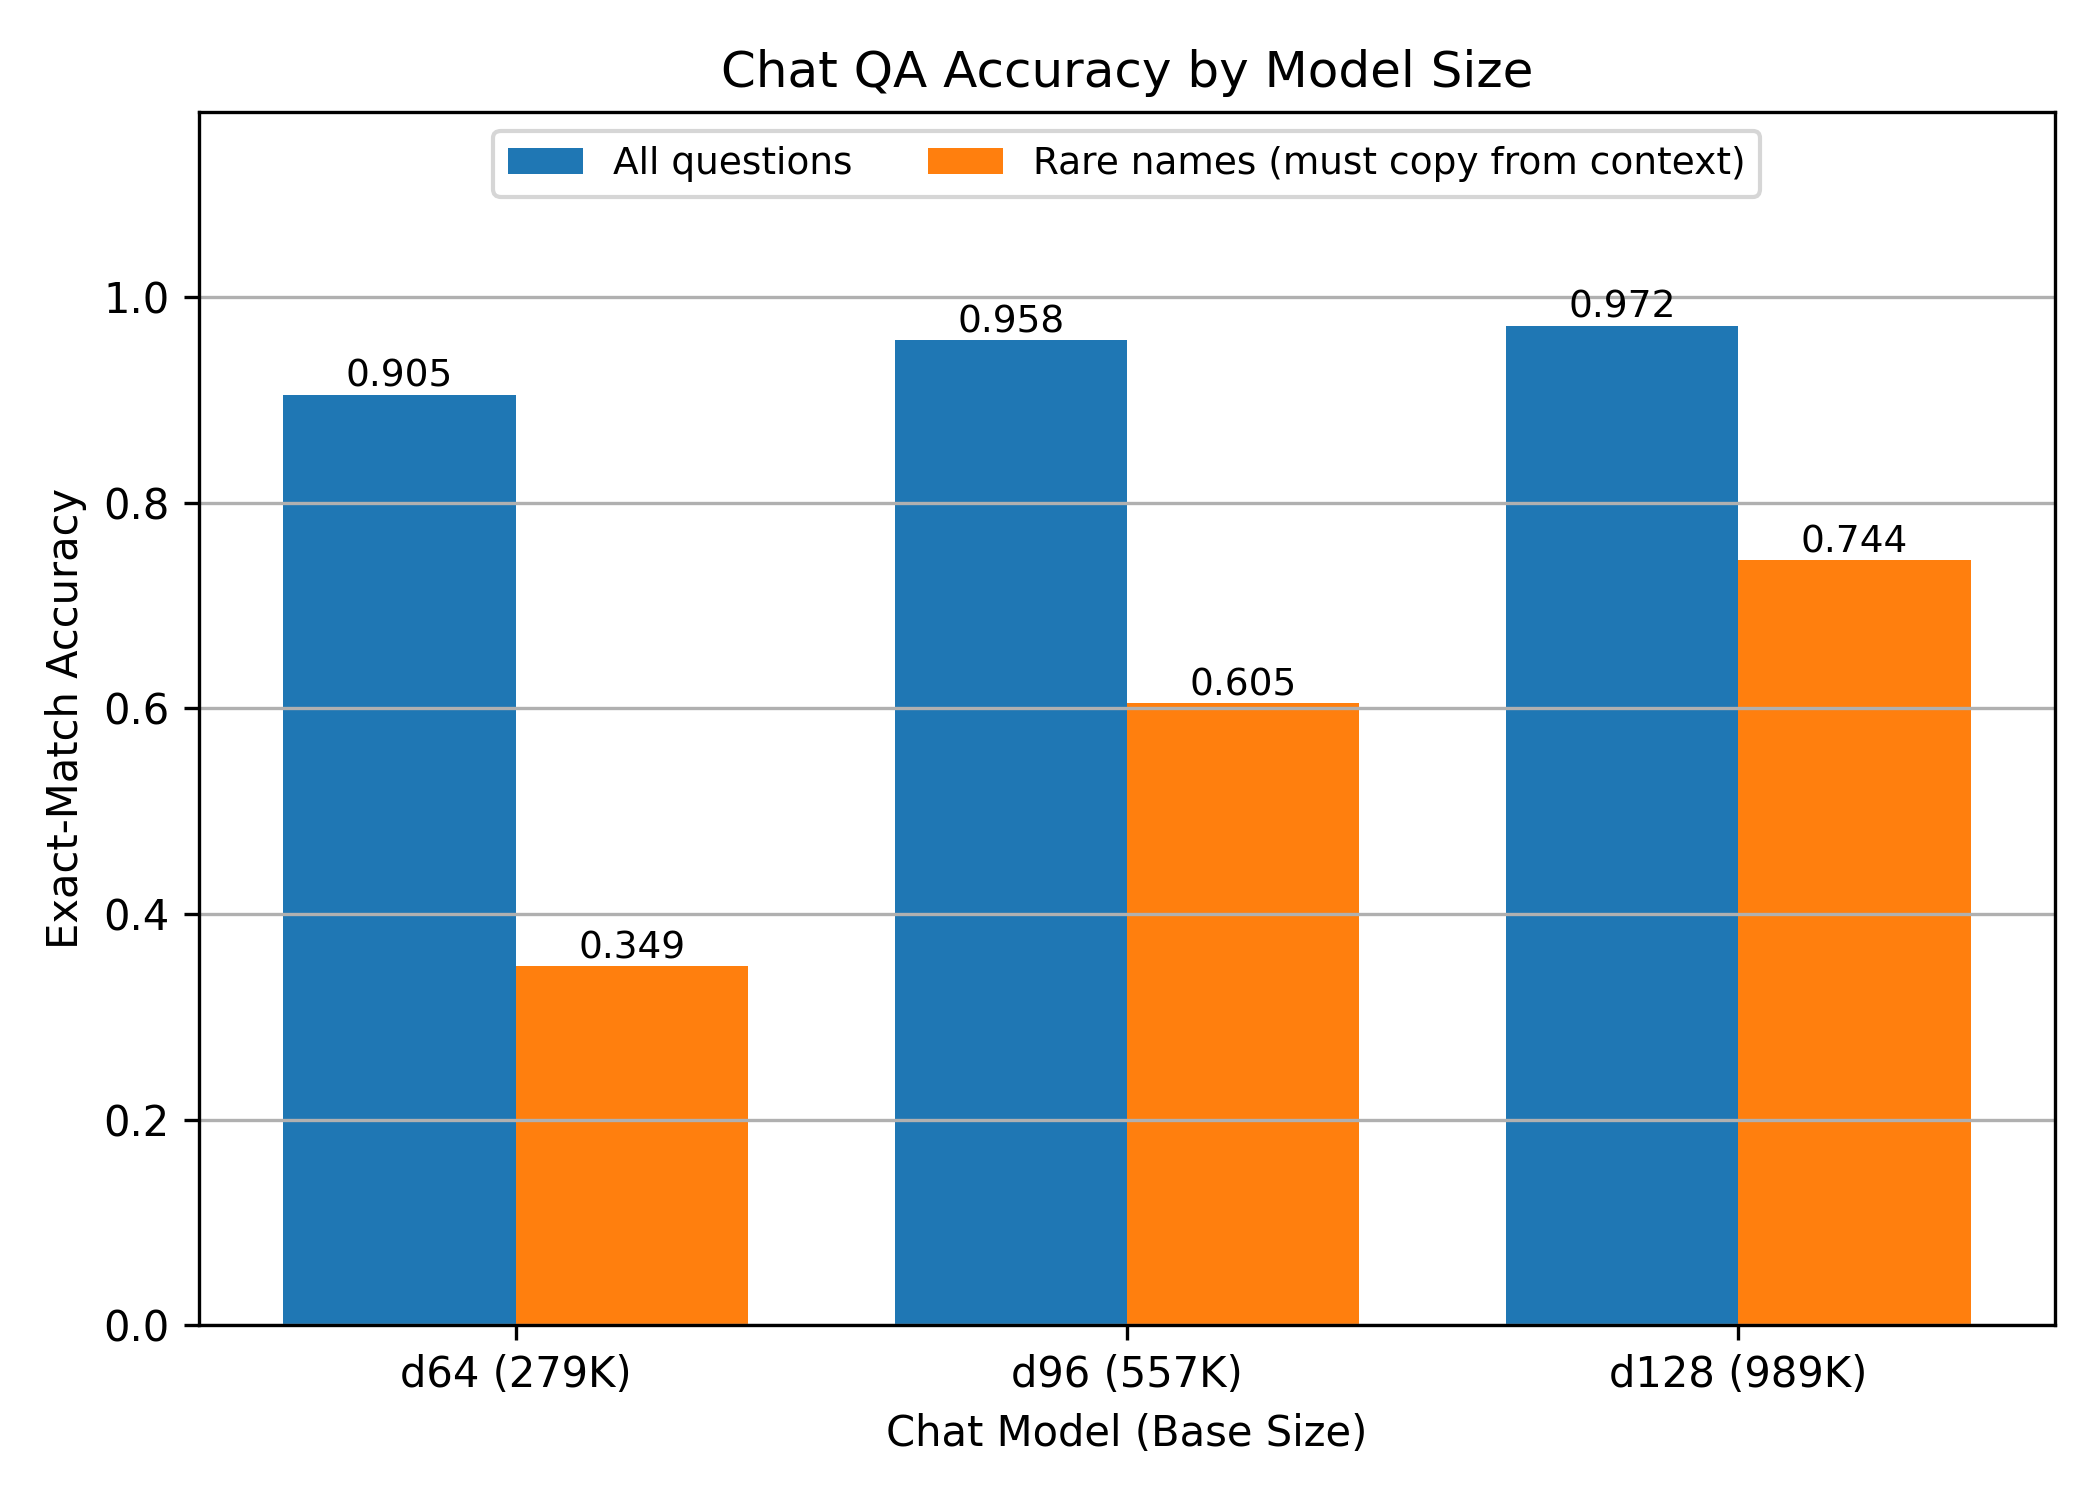
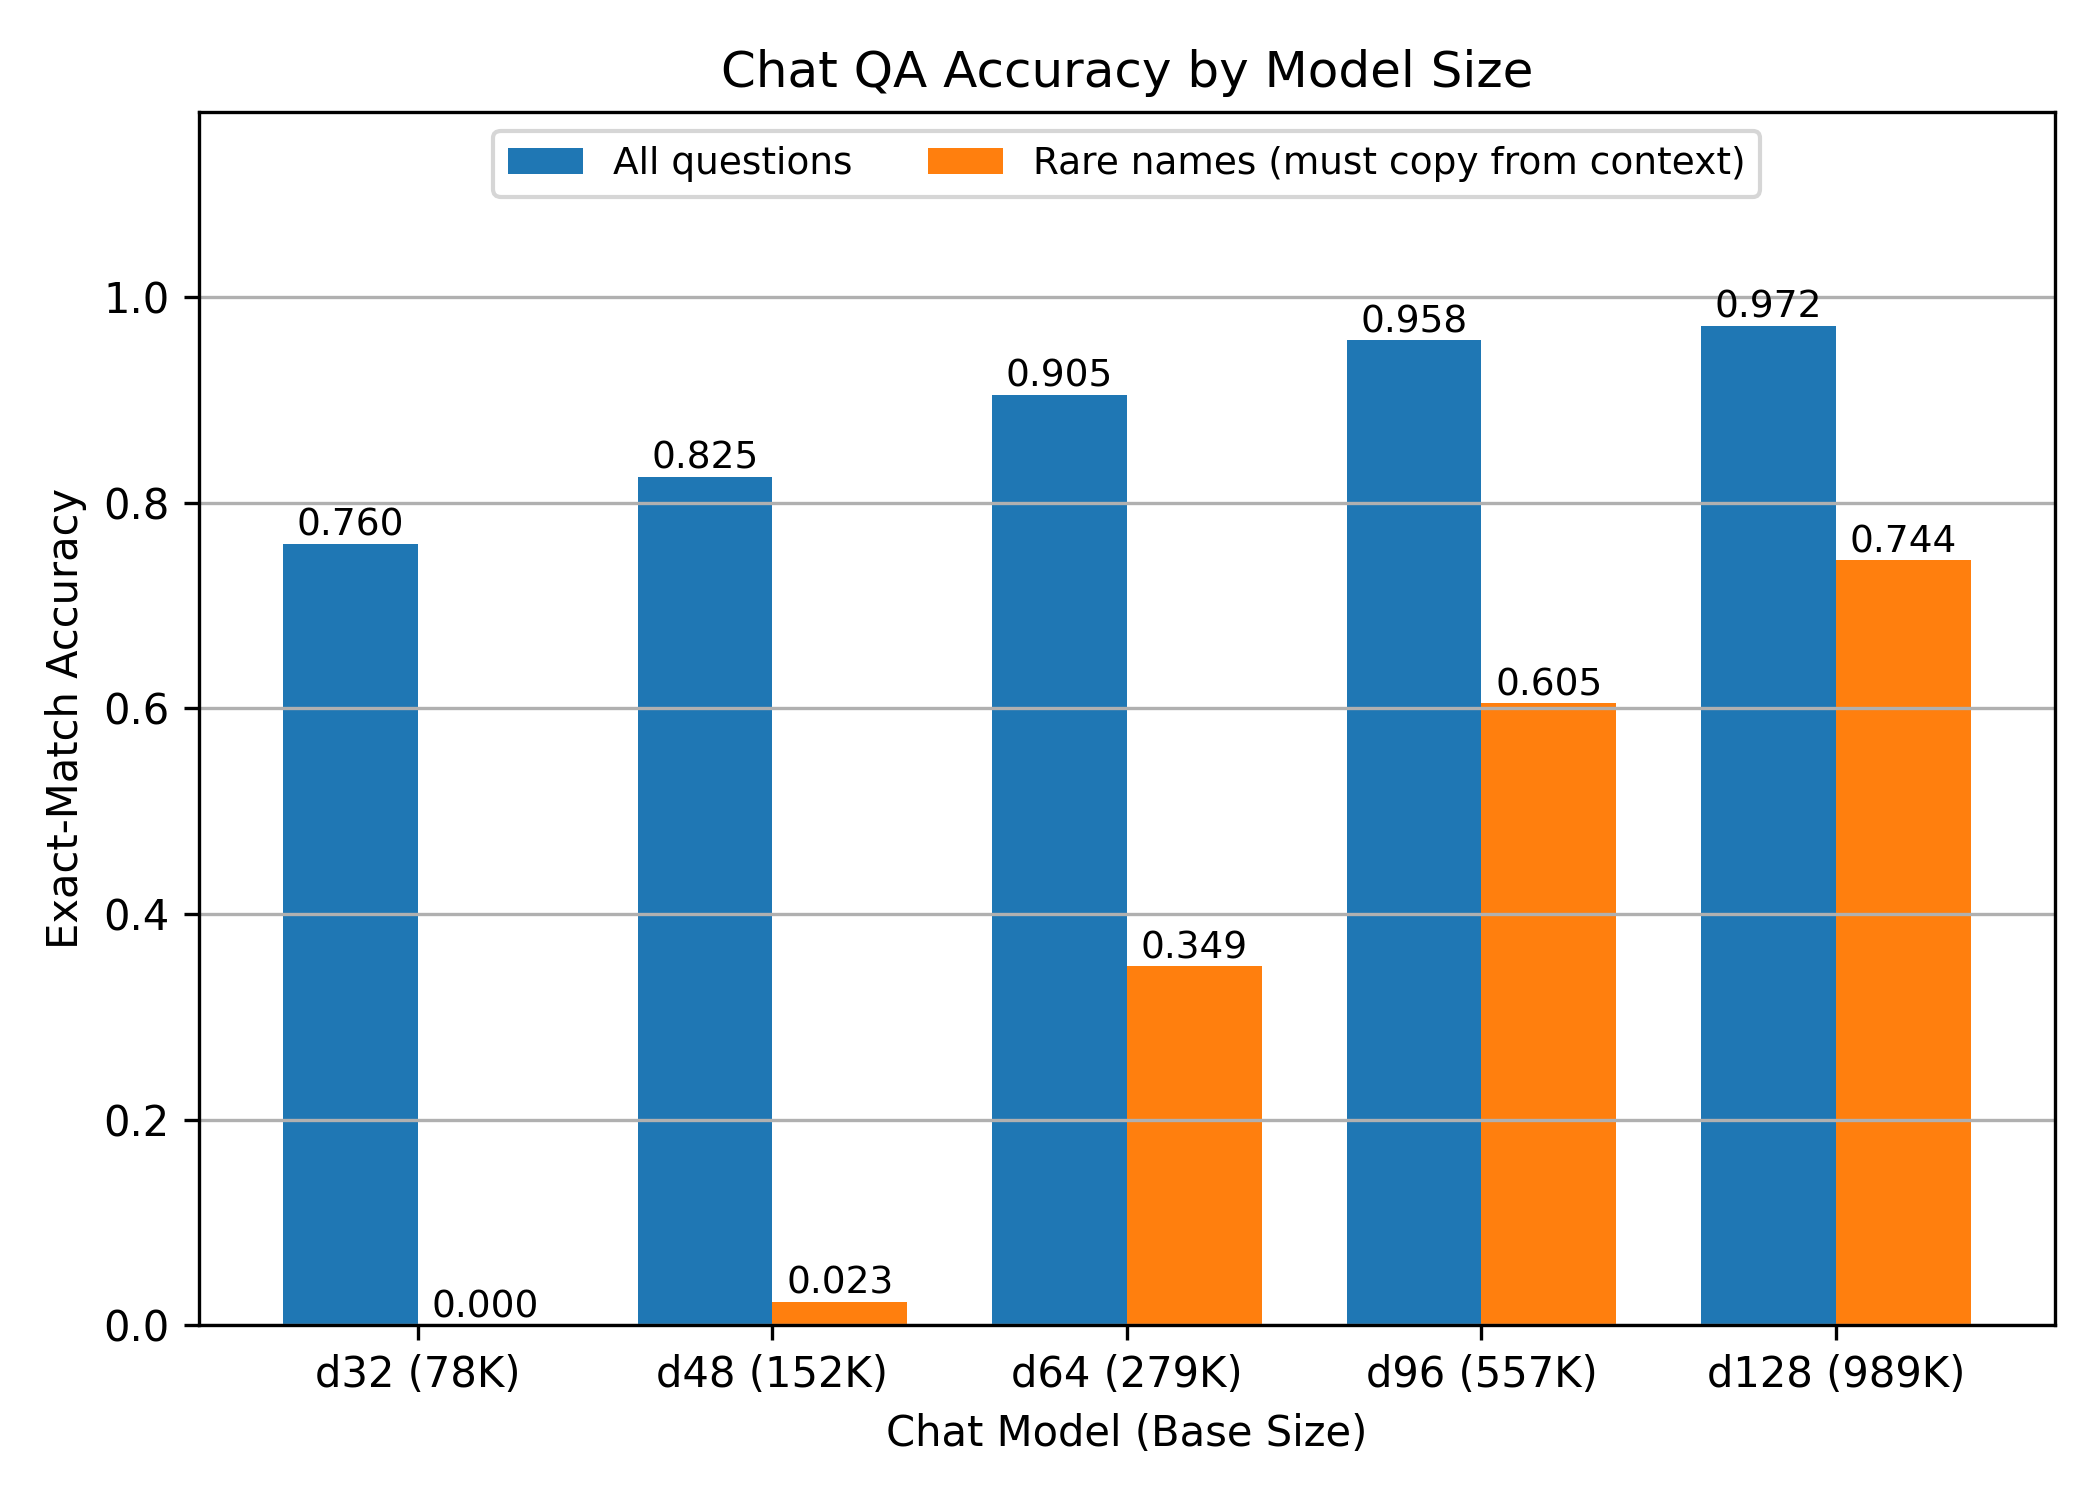
Chat comparison: 5-point curve

Changed region(s): [[0.5262, 0.184, 0.9286, 0.9507], [0.1238, 0.184, 0.5571, 0.92], [0.4952, 0.8893, 0.5881, 0.92]]

diff --git a/reports/make_chat_compare.py b/reports/make_chat_compare.py
@@ -10,9 +10,9 @@ HERE = os.path.dirname(os.path.abspath(__file__))
 FIG = os.path.normpath(os.path.join(HERE, "..", "figures"))
 os.makedirs(FIG, exist_ok=True)
 
-labels = ["d64 (279K)", "d96 (557K)", "d128 (989K)"]
-all_em = [0.905, 0.958, 0.972]
-rare_em = [0.349, 0.605, 0.744]
+labels = ["d32 (78K)", "d48 (152K)", "d64 (279K)", "d96 (557K)", "d128 (989K)"]
+all_em = [0.760, 0.825, 0.905, 0.958, 0.972]
+rare_em = [0.000, 0.023, 0.349, 0.605, 0.744]
 
 x = np.arange(len(labels))
 w = 0.38
